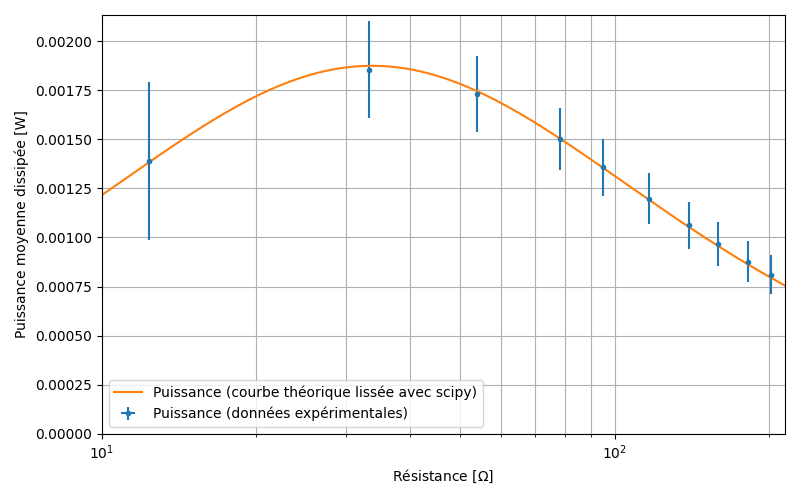
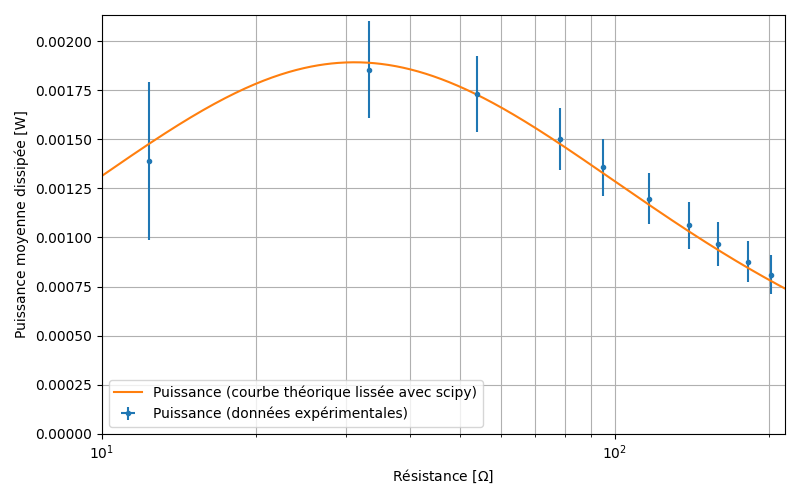
Graphiques finaux j'espère

diff --git a/Labo5/Programmation/Partie 1.py b/Labo5/Programmation/Partie 1.py
@@ -162,11 +162,10 @@ def fonction_theorique_f(r_ch, V=1, r_s=50):
 
     return puissance
 
-
 def fit(circuit):
     data = donnees_graphique(circuit)
     if circuit == 'f':
-        param, param_cov = curve_fit(fonction_theorique_f, data[1], data[0])
+        param, param_cov = curve_fit(fonction_theorique_f, data[1], data[0], bounds=([0.98, -np.inf], [1.02, np.inf]))
 
         r = np.linspace(10, 215, 1000)
         w = 2000 * np.pi    # 2pi*f où f=1kHz
@@ -202,8 +201,7 @@ def tracer_graphique(circuit):
     curve = fit(circuit)
     puissance = curve[0]
     V, r_s = curve[1], curve[2]
-    cov = curve[3]
-    errs = np.sqrt(np.diag(cov))
+    errs = np.sqrt(np.diag(curve[3]))
     inc_V, inc_r_s = errs[0], errs[1]
 
     print(V, inc_V)

diff --git a/Labo5/Programmation/test.py b/Labo5/Programmation/test.py
@@ -1,22 +1,17 @@
-import os
 import numpy as np
-import pandas as pd
-
-path = os.path.join("Labo5/Mesures/Partie1/mesures_c_")
-
-def read(file_name):
-    df = pd.read_csv(file_name, sep="\t", skiprows=21, decimal=",")
-    df = df.iloc[:, 1:].copy()
-
-    return df.to_numpy()[:, :2]
 
 
-for i in range(10):
-    end = f"{i}.lvm"
+liste = ['foo']
 
-    data = read(path+end)
+n = 1
 
-    V = np.std(data[:, 0]/10)
-    R = np.std(data[:, 1])
+while n < 10000:
+    if n % 2 == 0:
+        liste.append('bar')
+    else:
+        liste.append('foo')
+    n += 1
 
-    print(f"{i}\nTension : {V}\nRésistance : {R}")
+array = np.array([liste])
+
+print(liste, "\n", array)
